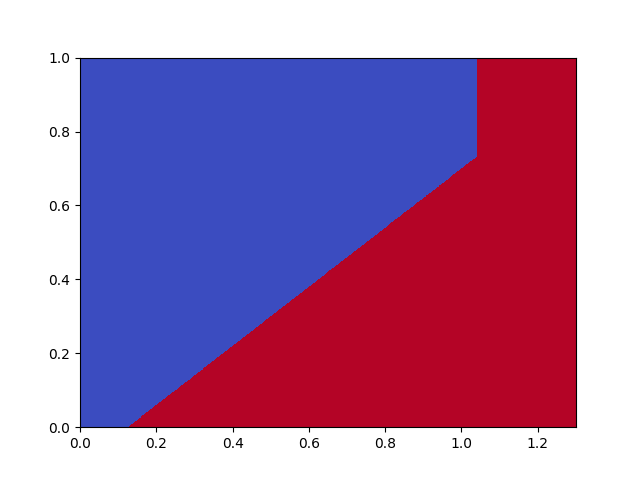
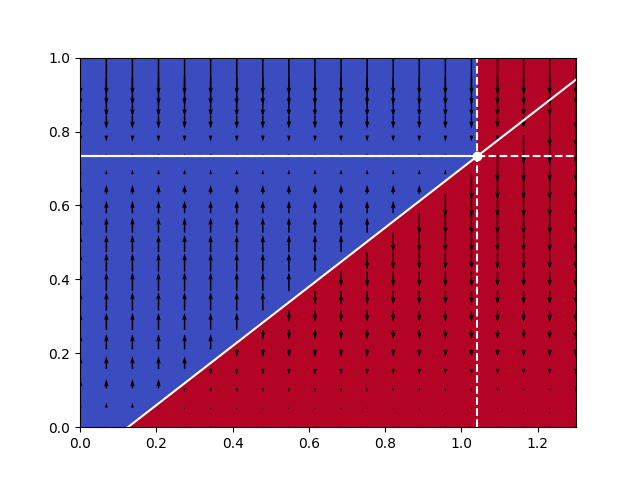
Finished Plot, Beschriftungen fehlen noch

diff --git a/src/main.py b/src/main.py
@@ -12,27 +12,53 @@ def forest_cover_derivative(C_crit, x, r, C, A):
     result[mask] = r * (1 - C[mask]) * C[mask] - x * C[mask]
     return result
 
-def forest_cover(C_crit, x, r, C, A):
+def forest_cover(C_crit, x, r, m, b, C, A):
     C = np.asarray(C)
     A = np.asarray(A)
     result = np.empty_like(C)
-    mask = (1-x/r > calc_C_crit(A)) & (C>calc_C_crit(A))
+    mask = (1-x/r > calc_C_crit(A,m,b)) & (C>calc_C_crit(A,m,b))
     result[~mask] = -1
     result[mask] = 1
     return result
 
 
-def calc_C_crit(A):
-    return A*0.8-0.1
-resolution=int(1e3)
-A=np.linspace(0,1.3,resolution)
-C=np.linspace(0,1.0,resolution)
-C_crit=calc_C_crit(A)
+def calc_C_crit(A,m,b):
+    return A*m+b
+
+def calc_C_F(x,r):
+    return(1-x/r)
+
+def calc_A_F(x,r,m,b):
+    return (calc_C_F(x,r)-b)/m
+
+
 x=0.4
 r=1.5
+m=0.8
+b=-0.1
+resolution=int(1e3)
+resolution_sparse=20
+A=np.linspace(0,1.3,resolution)
+A_sparse=np.linspace(0,1.3,resolution_sparse)
+C=np.linspace(0,1.0,resolution)
+C_sparse=np.linspace(0,1.0,resolution_sparse)
+C_crit=calc_C_crit(A,m,b)
+C_crit_sparse=calc_C_crit(A_sparse,m,b)
+
 AA, CC = np.meshgrid(A, C)
-State=forest_cover(C_crit,x,r,CC,AA)
+AA_sparse, CC_sparse = np.meshgrid(A_sparse, C_sparse)
+
+Direction=np.sign(forest_cover_derivative(C_crit,x,r,CC,AA))
+State=forest_cover(C_crit,x,r,m,b,CC,AA)
+
+Direction_sparse=(forest_cover_derivative(C_crit_sparse,x,r,CC_sparse,AA_sparse))
 
 plt.pcolormesh(AA, CC,State, shading='auto', cmap='coolwarm_r')#, norm=norm)
-
+plt.quiver(AA_sparse,CC_sparse, 0*np.ones_like(AA_sparse), Direction_sparse)
+plt.plot(A,C_crit,color='white')
+plt.plot([0,calc_A_F(x,r,m,b)],[calc_C_F(x,r),calc_C_F(x,r)],color='white')
+plt.scatter([calc_A_F(x,r,m,b)],[calc_C_F(x,r)],color='white')
+plt.plot([calc_A_F(x,r,m,b),calc_A_F(x,r,m,b)],[0,1],linestyle='--',color='white')
+plt.plot([0,1.3],[calc_C_F(x,r),calc_C_F(x,r)],linestyle='--',color='white')
+plt.ylim(0,1)
 plt.savefig('results/test.png')
